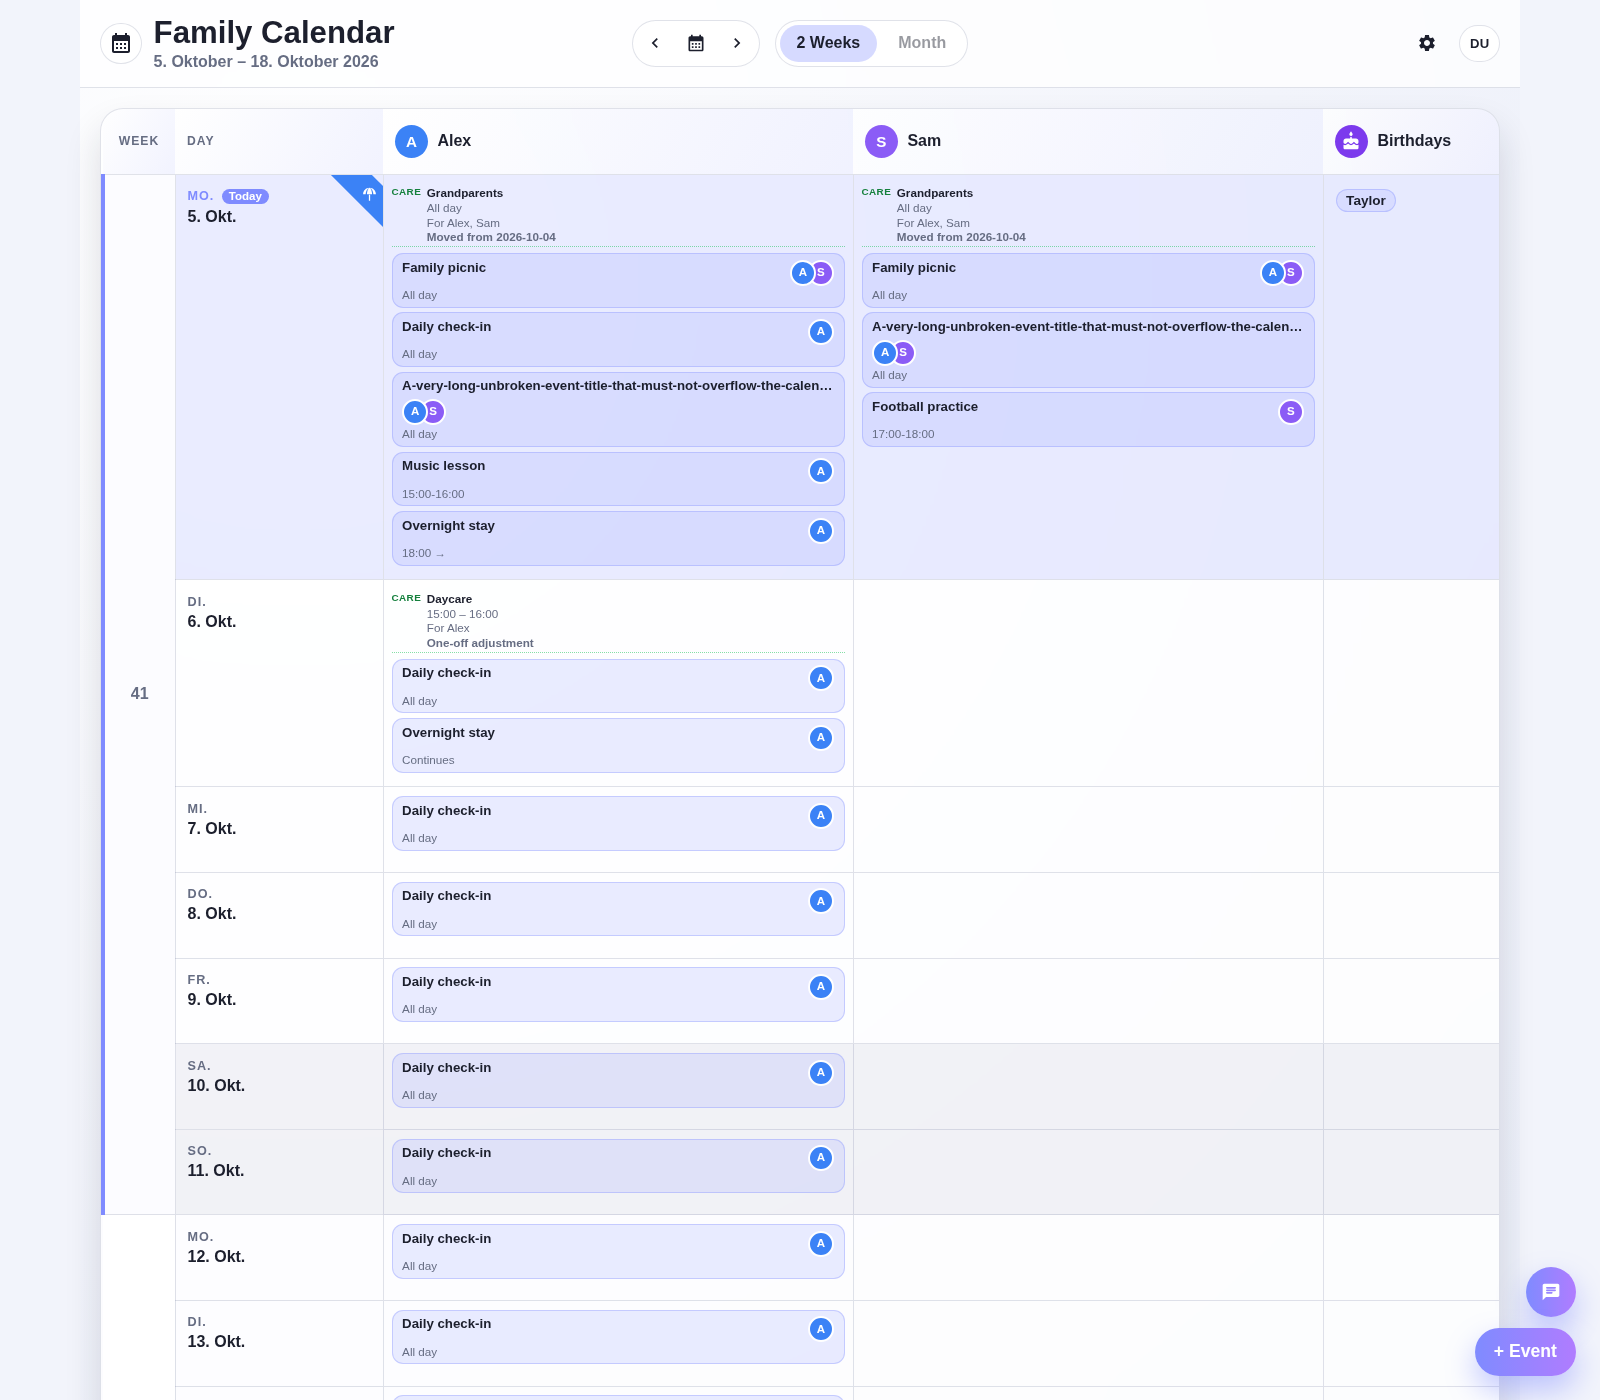
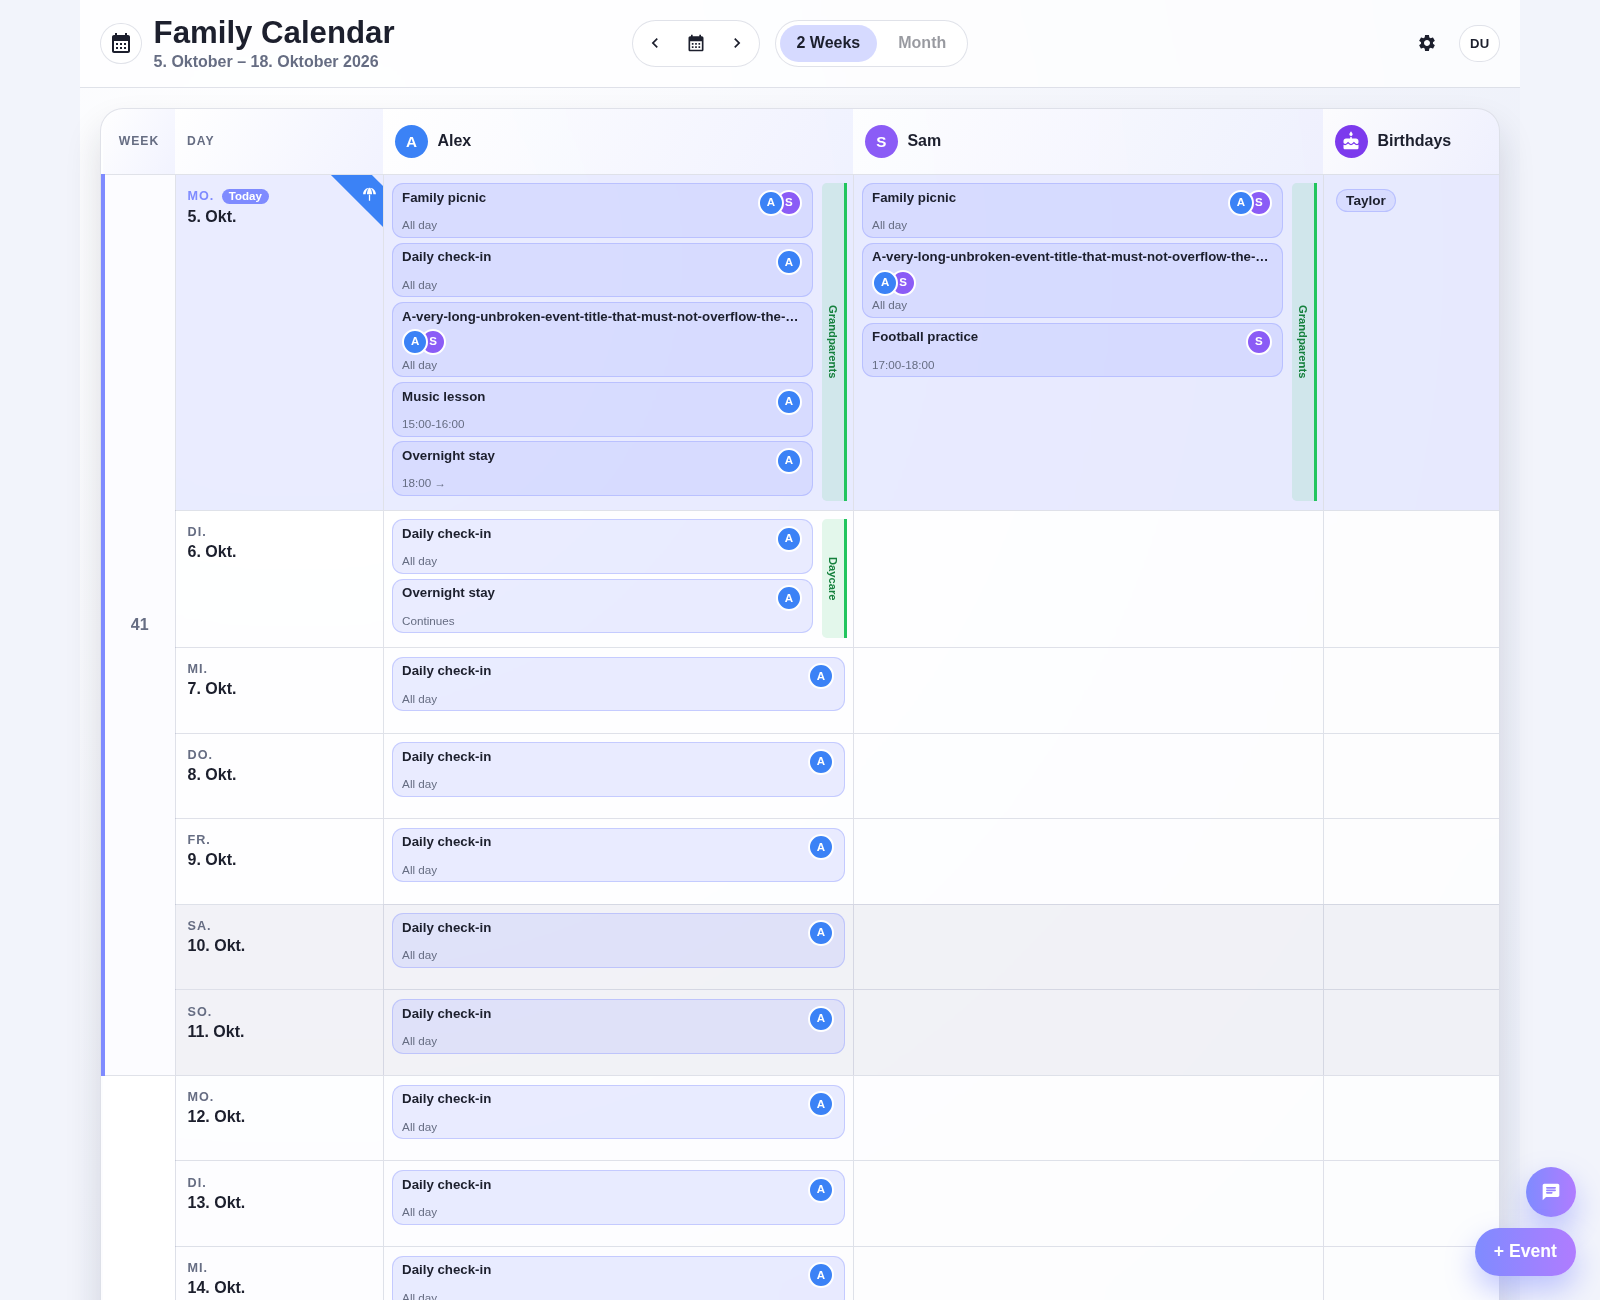
Show childcare provider bars with hover details

diff --git a/frontend/src/pages/DashboardPage.tsx b/frontend/src/pages/DashboardPage.tsx
@@ -35,9 +35,11 @@ interface DayCellDecorations {
 function ChildcareCalendarEntry({
   occurrence,
   members,
+  layout,
 }: {
   occurrence: ResolvedChildcareOccurrence;
   members: FamilyMember[];
+  layout: "wide" | "compact";
 }) {
   const memberById = new Map(members.map((member) => [member.id, member]));
   const childNames = occurrence.childIds
@@ -46,16 +48,20 @@ function ChildcareCalendarEntry({
   const changeLabel = occurrence.overrideAction === "move"
     ? `Moved from ${occurrence.originalDate}`
     : occurrence.overrideAction === "replace" ? "One-off adjustment" : null;
+  const details = [
+    occurrence.allDay ? "All day" : `${occurrence.startTime} – ${occurrence.endTime}`,
+    `For ${childNames.join(", ") || "household children"}`,
+    changeLabel,
+  ].filter(Boolean).join(" · ");
+  const providerName = occurrence.providerName ?? "Care provider";
 
   return (
-    <div className="calendar-childcare-entry">
-      <span className="calendar-childcare-marker" aria-hidden="true">Care</span>
-      <span className="calendar-childcare-details">
-        <strong>{occurrence.providerName ?? "Care provider"}</strong>
-        <small>{occurrence.allDay ? "All day" : `${occurrence.startTime} – ${occurrence.endTime}`}</small>
-        <small>For {childNames.join(", ") || "household children"}</small>
-        {changeLabel && <small className="calendar-childcare-change">{changeLabel}</small>}
-      </span>
+    <div
+      className={`calendar-childcare-entry calendar-childcare-entry--${layout}`}
+      title={`${providerName} · ${details}`}
+      aria-label={`Childcare: ${providerName}. ${details}`}
+    >
+      {layout === "wide" ? providerName : `Care · ${providerName}`}
     </div>
   );
 }
@@ -862,14 +868,22 @@ export function DashboardPage({
                         const childcareEntries = (childcareByDate.get(isoDate) ?? [])
                           .filter((occurrence) => occurrence.childIds.includes(member.id));
                         return (
-                          <td key={`${isoDate}-${member.id}`} className="event-cell member-event-cell">
-                            {childcareEntries.map((occurrence) => (
-                              <ChildcareCalendarEntry
-                                key={occurrence.id}
-                                occurrence={occurrence}
-                                members={orderedMembers}
-                              />
-                            ))}
+                          <td
+                            key={`${isoDate}-${member.id}`}
+                            className={`event-cell member-event-cell ${childcareEntries.length > 0 ? "has-childcare" : ""}`}
+                          >
+                            {childcareEntries.length > 0 && (
+                              <div className="calendar-childcare-rail">
+                                {childcareEntries.map((occurrence) => (
+                                  <ChildcareCalendarEntry
+                                    key={occurrence.id}
+                                    occurrence={occurrence}
+                                    members={orderedMembers}
+                                    layout="wide"
+                                  />
+                                ))}
+                              </div>
+                            )}
                             {entries.map((entry) => {
                               const eventType = entry.eventTypeId ? eventTypeById.get(entry.eventTypeId) : null;
                               const assignedMembers = entry.memberIds
@@ -899,6 +913,7 @@ export function DashboardPage({
                               key={occurrence.id}
                               occurrence={occurrence}
                               members={orderedMembers}
+                              layout="compact"
                             />
                           ))}
                         {(eventsByDateAndMember.get(isoDate) ?? [])

diff --git a/frontend/src/pages/DashboardPage.stories.tsx b/frontend/src/pages/DashboardPage.stories.tsx
@@ -109,8 +109,9 @@ export const Desktop: Story = {
     const memberCells = todayRow.querySelectorAll(".member-event-cell");
     await waitFor(() => {
       expect(memberCells).toHaveLength(2);
-      expect(memberCells[0].querySelector(".calendar-childcare-entry")?.textContent).toContain("Grandparents");
-      expect(memberCells[1].querySelector(".calendar-childcare-entry")?.textContent).toContain("Grandparents");
+      expect(memberCells[0].querySelector(".calendar-childcare-entry--wide")?.textContent).toContain("Grandparents");
+      expect(memberCells[1].querySelector(".calendar-childcare-entry--wide")?.textContent).toContain("Grandparents");
+      expect(memberCells[0].querySelector(".calendar-childcare-entry--wide")?.getAttribute("title")).toContain("All day");
     });
   },
 };
@@ -147,10 +148,10 @@ export const DayAndEvents: Story = {
     await expect(alex.querySelector(".avatar")?.getBoundingClientRect().height).toBe(alex.getBoundingClientRect().height);
     await expect(events()).toHaveLength(1);
     await waitFor(() => {
-      expect(canvas.getByText("Grandparents")).toBeVisible();
-      expect(canvas.getByText("For Alex, Sam")).toBeVisible();
-      expect(canvas.getByText(`Moved from ${yesterdayDate}`)).toBeVisible();
-      expect(canvas.getByText("15:00 – 16:00")).toBeVisible();
+      expect(canvas.getByText("Care · Grandparents")).toBeVisible();
+      expect(canvas.getByText("Care · Daycare")).toBeVisible();
+      expect(canvas.getByText("Care · Grandparents").getAttribute("title")).toContain("For Alex, Sam");
+      expect(canvas.getByText("Care · Grandparents").getAttribute("title")).toContain(`Moved from ${yesterdayDate}`);
     });
     await expect(canvas.getByRole("button", { name: "Open event Hidden member event" })).toBeVisible();
     await expect(canvas.queryByRole("button", { name: "Filter events for Hidden" })).toBeNull();

diff --git a/frontend/src/App.css b/frontend/src/App.css
@@ -894,39 +894,58 @@ body,
   margin-bottom: 0.3rem;
 }
 
-.calendar-childcare-entry {
+.member-event-cell.has-childcare {
+  position: relative;
+  padding-right: 2.5rem !important;
+}
+
+.calendar-childcare-rail {
+  position: absolute;
+  top: 0.55rem;
+  right: 0.35rem;
+  bottom: 0.55rem;
   display: flex;
-  align-items: flex-start;
-  gap: 0.35rem;
-  margin-bottom: 0.35rem;
-  padding: 0.2rem 0;
-  border-bottom: 1px dotted rgba(34, 197, 94, 0.55);
-  overflow-wrap: anywhere;
+  gap: 0.2rem;
 }
 
-.calendar-childcare-marker {
-  flex-shrink: 0;
+.calendar-childcare-entry--wide {
+  display: flex;
+  align-items: center;
+  justify-content: center;
+  width: 1.55rem;
+  min-height: 0;
+  padding: 0.25rem 0.15rem;
+  border-right: 3px solid #22c55e;
+  border-radius: 0.3rem 0 0 0.3rem;
+  background: rgba(34, 197, 94, 0.12);
   color: #15803d;
-  font-size: 0.62rem;
+  font-size: 0.7rem;
   font-weight: 800;
-  letter-spacing: 0.04em;
-  text-transform: uppercase;
+  text-align: center;
+  text-orientation: mixed;
+  writing-mode: vertical-rl;
+  overflow: hidden;
+  text-overflow: ellipsis;
+  white-space: nowrap;
+  cursor: help;
 }
 
-.calendar-childcare-details {
-  display: grid;
-  gap: 0.1rem;
-  min-width: 0;
-}
-
-.calendar-childcare-details strong,
-.calendar-childcare-details small {
-  font-size: 0.73rem;
-}
-
-.calendar-childcare-change {
-  color: #15803d;
+.calendar-childcare-entry--compact {
+  display: block;
+  width: fit-content;
+  max-width: 100%;
+  margin-bottom: 0.25rem;
+  padding: 0.18rem 0.5rem;
+  border-top: 2px solid #22c55e;
+  background: rgba(34, 197, 94, 0.1);
+  color: var(--text-primary);
+  font-size: 0.72rem;
   font-weight: 700;
+  line-height: 1.25;
+  overflow: hidden;
+  text-overflow: ellipsis;
+  white-space: nowrap;
+  cursor: help;
 }
 
 .event-item-title {

diff --git a/CHANGELOG.md b/CHANGELOG.md
@@ -4,6 +4,7 @@
 
 - Displayed persisted resolved childcare in the household calendar with provider/child labels and one-off move/replacement details, and added the read-only `get_childcare_coverage` agent tool. Updated UI screenshot: `/home/runner/work/family-butler-v2/family-butler-v2/docs/screenshots/household-calendar-childcare.png`.
 - Replaced card-style childcare calendar entries with compact inline care indicators and placed occurrences in each participating child’s wide-calendar column. Updated screenshot: `/home/runner/work/family-butler-v2/family-butler-v2/docs/screenshots/household-calendar-childcare.png`.
+- Updated childcare calendar presentation: wide member columns now use right-edge vertical provider bars with hover details; compact day cells show a single horizontal provider row. Updated screenshot: `/home/runner/work/family-butler-v2/family-butler-v2/docs/screenshots/household-calendar-childcare.png`.
 - Aligned Childcare Settings with the other Settings grids using shared card styling, right-aligned icon actions, and styled add buttons. Updated screenshot: `/home/runner/work/family-butler-v2/family-butler-v2/docs/screenshots/settings-childcare.png`.
 - Added Settings → Childcare for provider editing/deactivation/reactivation, weekly all-day/timed arrangements with multiple children, non-persisting server-resolved previews, and single-occurrence cancellations/replacements/moves. Existing installations must rerun the childcare SQL migration. Updated UI screenshot: `/home/runner/work/family-butler-v2/family-butler-v2/docs/screenshots/settings-childcare.png`.
 - Added household-scoped childcare persistence, owner-based RLS, and an authenticated API for weekly all-day/timed arrangements with multiple children and one-off cancellation, replacement, and move overrides. Effective occurrences resolve server-side from persisted data, separately from events; UI, calendar, and agent integration remain planned.
